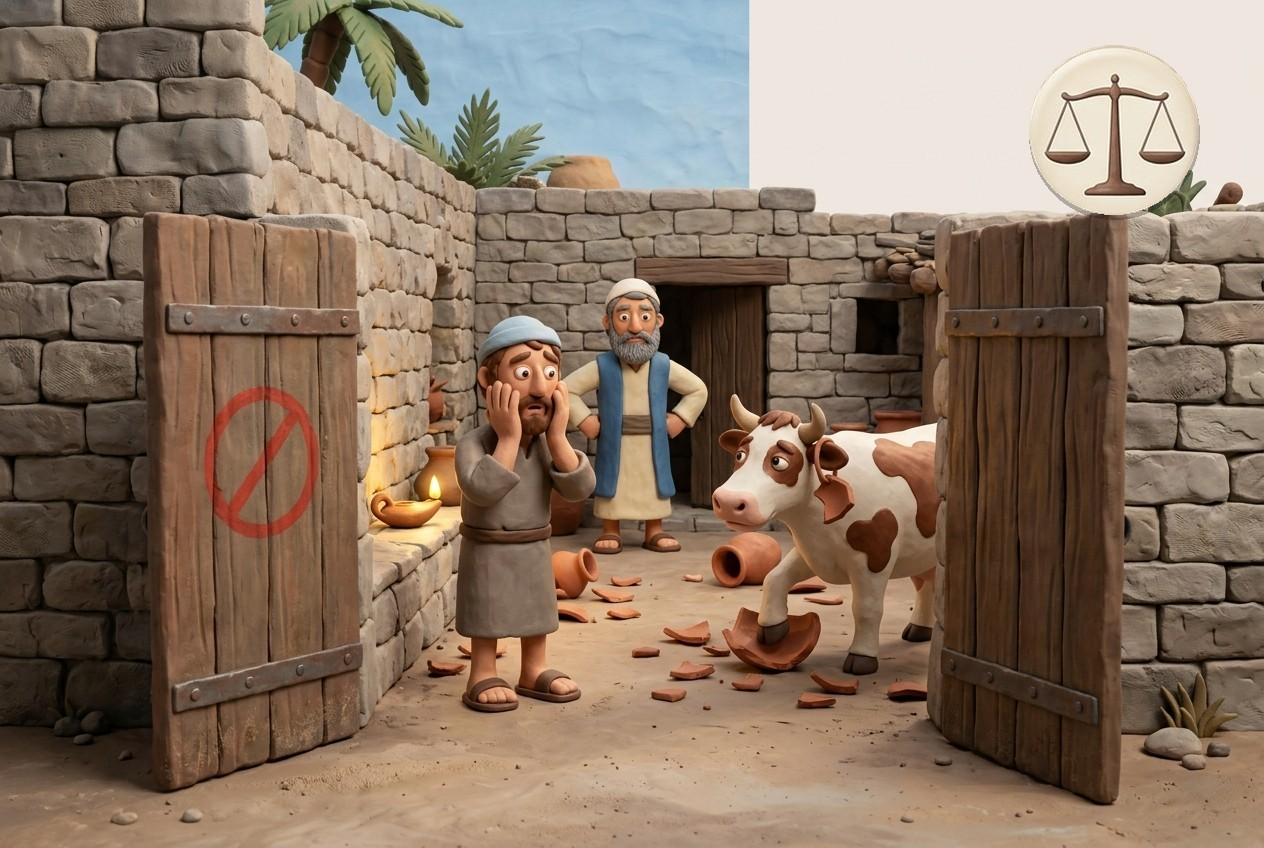
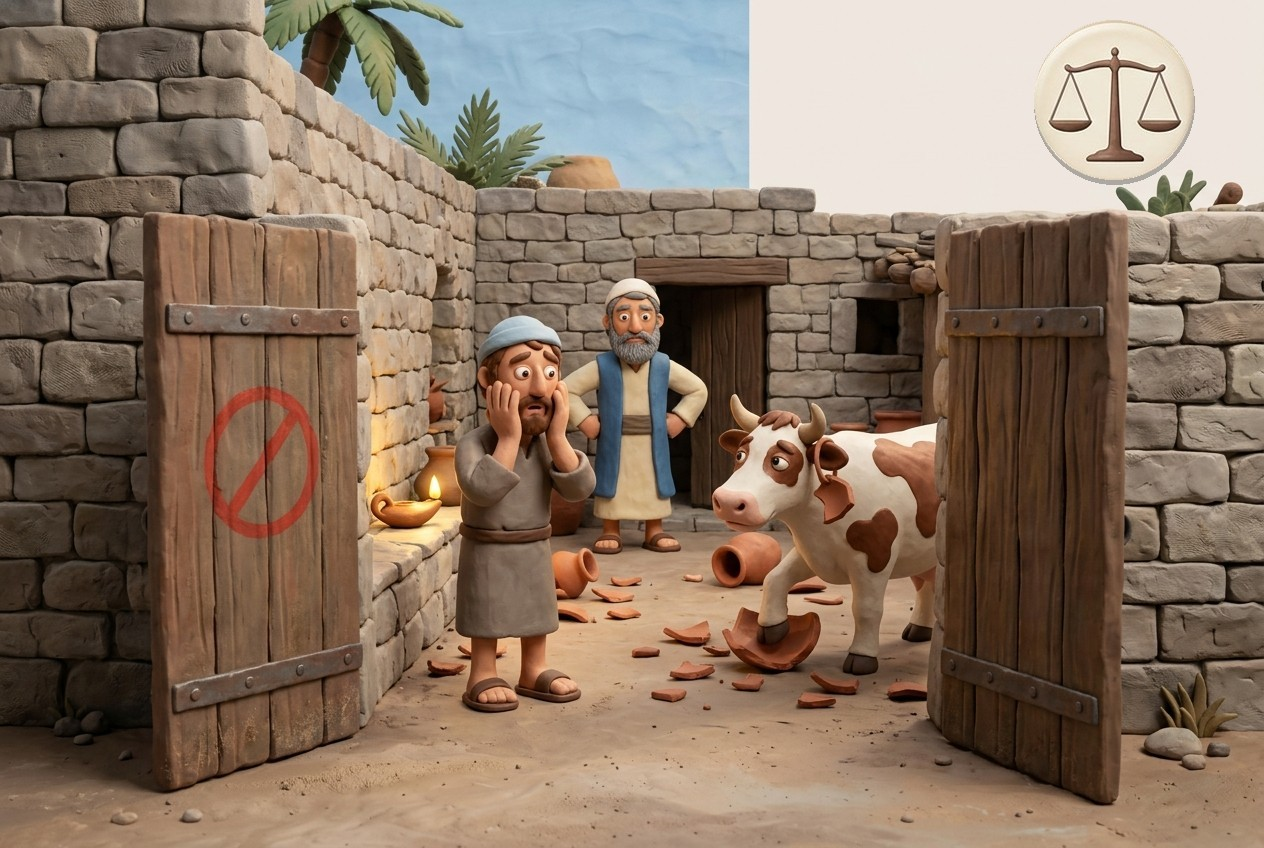
Badge placement review: nudge BK 5:2 badges and 5:6 payer tag

Changed region(s): [[0.8022, 0.0307, 0.9565, 0.2759]]

diff --git a/AnyMishnahWeb/scripts/compose_bk5.py b/AnyMishnahWeb/scripts/compose_bk5.py
@@ -23,7 +23,7 @@ Image.open(IMG + "42_clean.jpg").convert("RGB").save("site/img/bk5-1.jpg", quali
 # 5:2a / 5:2b badge in the empty upper-right corner of the picture
 for src, name, kind in (("41.jpg", "bk5-2a.jpg", "not"), ("40.jpg", "bk5-2b.jpg", "pay")):
     im = Image.open(IMG + src).convert("RGB"); W, H = im.size
-    paste(im, PAY if kind == "pay" else NOT, W - 150, 130, 170); save(im, name)
+    paste(im, PAY if kind == "pay" else NOT, W - 150, 100, 160); save(im, name)
 # 5:5: left PAY (10), right NOT-PAY (9)
 im, _ = box_badges("38.jpg", "bk5-5.jpg", "pay", "not"); save(im, "bk5-5.jpg")
 # 5:6: left NOT-PAY, right PAY, plus a payer tag over the second partner
@@ -31,4 +31,4 @@ im, boxes = box_badges("39_clean.jpg", "bk5-6.jpg", "not", "pay")
 pt = find_point(im, "the man in a green tunic standing with hands on his hips at the right, beside the pit's cover board (look only in the lower main scene)")
 d = ImageDraw.Draw(im); tx, ty = pt["x"], pt["y"] - 18
 d.polygon([(tx - 16, ty - 20), (tx + 16, ty - 20), (tx, ty)], fill=(250, 245, 230), outline=(110, 80, 60))
-paste(im, PAY, tx, ty - 70, 96); save(im, "bk5-6.jpg")
+paste(im, PAY, tx - 26, ty - 66, 96); save(im, "bk5-6.jpg")

diff --git a/AnyMishnahWeb/STYLE_BIBLE.md b/AnyMishnahWeb/STYLE_BIBLE.md
@@ -122,3 +122,5 @@ Before drafting any brief or prompt, read R. Kulp's commentary on that mishnah (
 
 ## RULE: where overlay symbols go (author, 2026-10-09)
 Place badges and fraction pills TOWARD THE TOP of the picture or box, where least happens, so they never cover a hand, face or object that matters (and read first). Where a symbol describes a relation between two people (a split between them), put it between them, centered on the top edge of the frame. BM 1:1: centered on the top edge of the sign board (canvas padded 70px at the top so nothing is clipped). BM 1:2: centered between the two men on the top frame of each box. Do not default to a box's upper-right corner: that was only a convenient default in BK 5 and BM 1:5, and should be reviewed picture by picture for what it covers.
+
+Placement review of existing pictures (2026-10-09): BK 5:2a/2b badges moved up so they no longer touch the gate door; BK 5:6 payer tag shifted left, clear of the '?'; BK 5:5 and 5:6 box-corner badges kept (the top-centre spot in 5:5 is occupied by the rod and the '10'); BM 1:3a/3b person tags already clear. Rule of thumb: check the candidate spot at full size for what it covers; the top-right corner of a box is acceptable only when the top-centre is busy.
